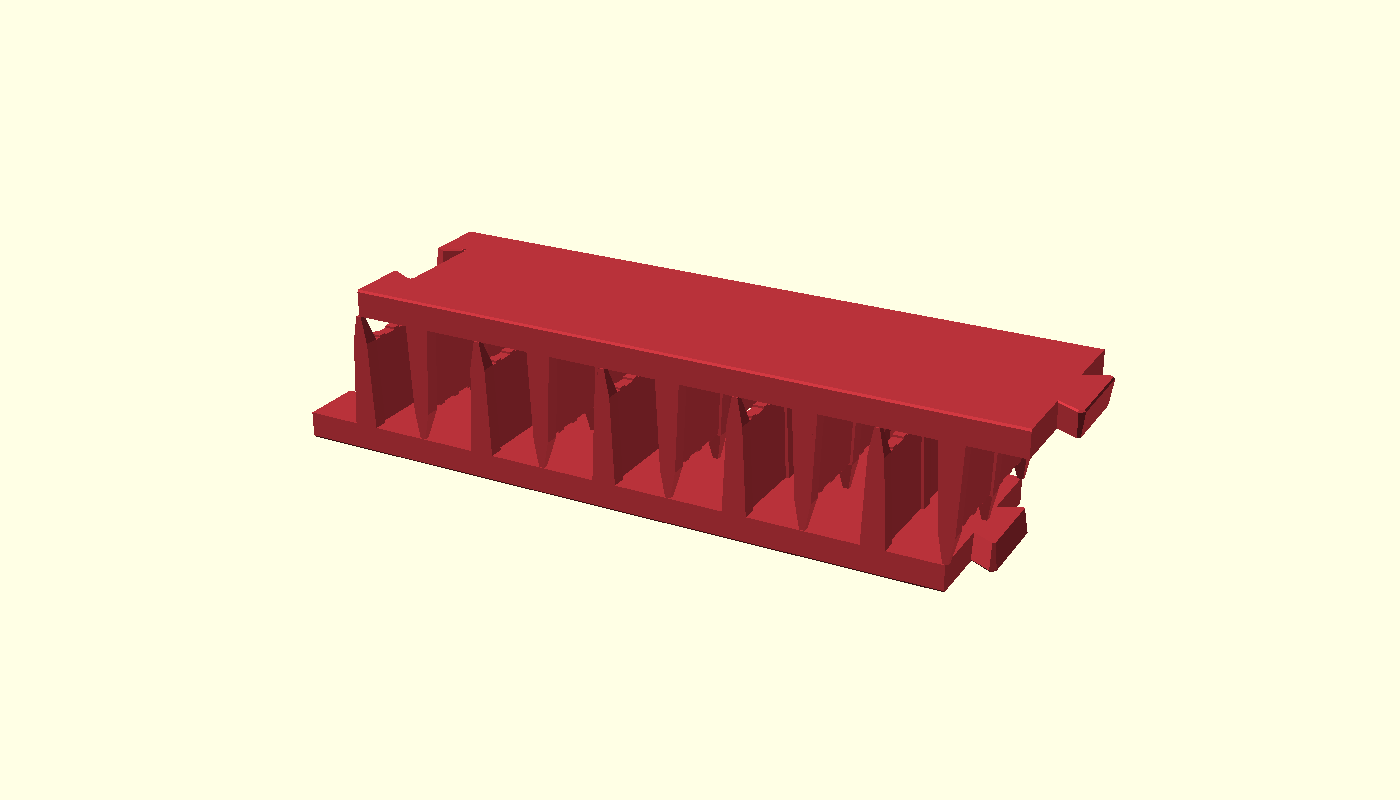
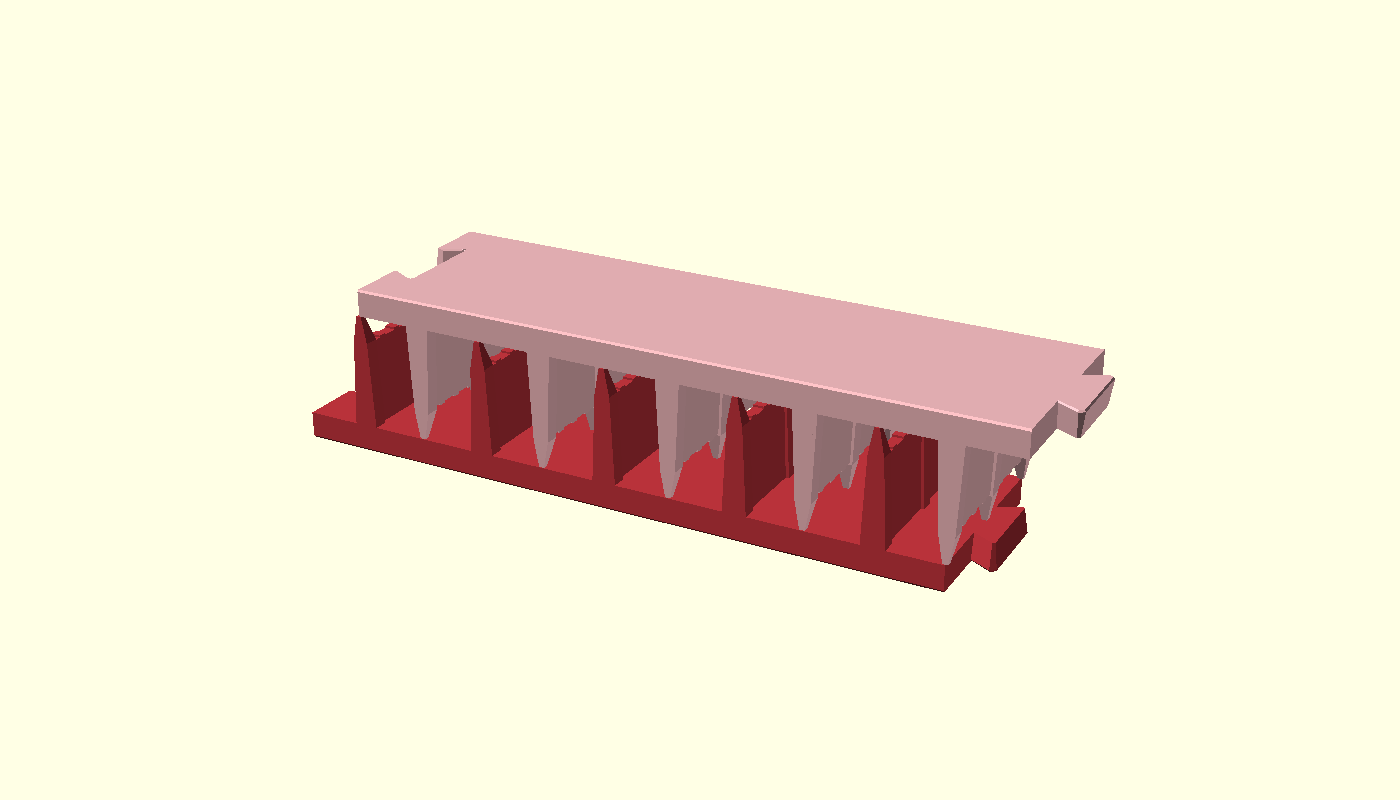
tape-strip-rack: keep rolls and tape out of every export; review round 1
The default render is the assembly with its payload drawn, and a full
render exported the rolls and the tape as geometry: 22 of the 27 bodies
in the STL the site's workbench shows and offers for download. The owner
caught it there. The payload is now drawn only when $preview is true, so
previews keep it and no export can contain it; the default export is the
five printed bodies.

Review round 1 (Jane, Drik, PM triage), the act-now items:
- README: seam at the rear, trim bridge whiskers under the gate before
  first use.
- Two new preview shots: section-pull (the tape just pulled, clear of
  the fin tops, cut through the joint's key) and nested-side. The
  existing nested shot keeps its camera and is drawn in two tones.
  tape_pose and cut_at are the two preview switches behind them.
- NOTES: CI's pass on 2b96a24 recorded beside the local gate, column by
  column; the payload-in-export bug.
- PM.md: backlog re-ranked (presser second, load mark fifth), shot
  table and decision log brought up to date.

No gated part changed: gate.sh --slice is 5 x 100/100 with eleven fit
proofs and the 4-object plate, and the product shot is byte-identical.

Claude-Session: https://claude.ai/code/session_01F1rwVymRWjLF8kogNxgoDx

Changed region(s): [[0.2457, 0.2812, 0.7986, 0.6875]]

diff --git a/designs/tape-strip-rack/NOTES.md b/designs/tape-strip-rack/NOTES.md
@@ -92,10 +92,11 @@ Details that exist for a reason:
 - **Nozzle / layer:** 0.4 mm / 0.2 mm.
 - **Perimeters:** 2 or 3.
 - **Infill:** 15–20 %.
-- **Supports:** none. The gate lintel is meant to be bridged.
+- **Supports:** none. The gate lintel is meant to be bridged. Its underside is the surface the tape slides on, so trim any bridge whiskers before the first pull.
+- **Seam:** rear. An aligned seam that lands on a dovetail flank leaves a ridge there, and the coupon then reads it as too little clearance. Printability review, not yet checked on a print.
 - **Bed:** the rack is 207.8 mm long. On a 220 mm bed it leaves 6 mm at each end, so use a skirt distance of 2 mm, or no skirt, or turn the rack 45°.
 - **Order:** the joint coupon first, then the plate.
-- **Slicer estimate** (PrusaSlicer bare defaults, the gate's test-slice: 3 perimeters, 20 % infill): cradle 5 h 21 m / 60 g, spindle 48 m / 12 g, rack 6 h 02 m / 75 g each, end cap 1 h 24 m / 18 g, coupon 44 m / 10 g. Ten-fin set: about 242 g and 19 h 40 m at those settings.
+- **Slicer estimate** (PrusaSlicer bare defaults, the gate's test-slice: 3 perimeters, 20 % infill): cradle 5 h 22 m / 60 g, spindle 47 m / 12 g, rack 6 h 02 m / 75 g each, end cap 1 h 24 m / 18 g, coupon 44 m / 10 g. Ten-fin set: about 242 g and 19 h 40 m at those settings.
 - The end cap printed alone has only three post tips on its last layers; print it on the plate with the rack so the layers have time to cool.
 
 ## Print this first
@@ -125,23 +126,25 @@ The spindle is a loose running fit, not a tuned one, but roll cores vary: measur
 - `roll-fit` — two 62 × 19 mm rolls on a 25.4 mm core, on the spindle in the cradle: empty. `roll-fit-ctrl` — rolls 8 mm larger: interfere with the floor.
 - `nest-fit` — two rack segments nested for storage, 0.2 mm of air between them: empty. `nest-fit-ctrl` — the same without the half-pitch shift: interferes.
 
-## Gate evidence (2026-11-21, OpenSCAD 2021.01, PrusaSlicer 2.7)
+## Gate evidence
 
-`./scripts/gate.sh --slice tape-strip-rack` exits 0 in about 20 s.
+Two backends gate this design, and they do not always agree. The local gate runs OpenSCAD 2021.01. CI's render gate runs openscad-nightly with the Manifold backend, and is the one a merge depends on.
 
-| Part | printcheck | Test-slice |
-|---|---|---|
-| `cradle` | 100/100 | 5 h 22 m, 60.3 g |
-| `spindle` | 100/100 | 48 m, 12.2 g |
-| `rack` | 100/100 | 6 h 02 m, 75.5 g |
-| `end-cap` | 100/100 | 1 h 24 m, 18.1 g |
-| `tape-strip-rack-coupon` | 100/100 (2 bodies, intended) | 44 m, 9.9 g |
+| Part | Local, OpenSCAD 2021.01 | CI, nightly + Manifold, commit 2b96a24 | Test-slice (CI) |
+|---|---|---|---|
+| `cradle` | 100/100 | 100/100 | 5 h 22 m, 60.3 g |
+| `spindle` | 100/100 | 100/100 | 47 m, 12.2 g |
+| `rack` | 100/100 | 100/100 | 6 h 02 m, 75.5 g |
+| `end-cap` | 100/100 | 100/100 | 1 h 24 m, 18.1 g |
+| `tape-strip-rack-coupon` | 100/100 (2 bodies, intended) | 100/100 | 44 m, 9.9 g |
+
+CI's first run, on commit e3eb9f4, scored the cradle 67/100 and the spindle 59/100 while the local gate had both at 100/100: see Bugs caught. CI gates every later push again; the printcheck report on the pull request is the current record.
+
+Locally, `./scripts/gate.sh --slice tape-strip-rack` exits 0 in about 20 s (PrusaSlicer 2.7; its slice estimates are within a minute of CI's).
 
 Eleven fit proofs pass: five `empty`, six `interferes`. Plate: `build/tape-strip-rack-plate.3mf`, 4 separate objects for 4 declared parts. As merged the plate is spread over about 370 × 155 mm, mostly off a 220 mm bed; pressing Arrange in the slicer packs it onto one.
 
 `./scripts/check.sh` (whole tree) exits 0.
-
-These are the local numbers, on OpenSCAD 2021.01. CI gates the same parts on openscad-nightly with the Manifold backend, and its first run (commit e3eb9f4) failed the cradle and the spindle, which had passed here: see Bugs caught.
 
 Layer-by-layer check by review, sections every 0.2 mm against the layer below: the only thing that starts in mid-air on any part is the gate lintel, two regions 2.00 mm wide by 22.000 mm span at z = 37, each anchored at both ends. The slicer prints them as five bridge strands per lane and drops no feature on any part.
 
@@ -178,6 +181,8 @@ Strip count, traced by review on the assembly: cuts fall at x = 40, 80 … 400. 
   - *Spindle.* It was a single `rotate_extrude()` of a profile that touches the axis. The nightly exports a part that is one primitive as that primitive's raw mesh, and its raw revolve carries a zero-area triangle per side at each pole and along the axis: 384 of them, 190 of those duplicates. 2021.01 does not emit them. Fixed by building the spindle as one explicit polyhedron (`ring_loft`): every face a triangle, each end a fan about a centre point, 1,536 triangles with none degenerate and none duplicated. Volume within 0.05 mm³ of the old one.
   - *Why the emulation missed the cradle.* It fed Manifold single-precision meshes, and Manifold takes its merge tolerance from the precision of its input, so it merged the two edges before the union; and it did not round its output the way the STL writer does. Fed double-precision meshes, and with the six-digit rounding, it reproduces the failure on the old geometry — on the same edge, the nose face at z = 1.2, where CI reported it — and is clean on the new, for every part in both union orders. It cannot see the spindle's failure at all: a part that is one primitive never passes through a boolean.
   - The rule taken from it: a coordinate that comes from a 2D profile and one that comes from a 3D primitive must never be meant to coincide on a surface, and a part that is a single primitive must already be a clean mesh.
+  - Confirmed by CI on commit 2b96a24: all five gated meshes 100/100 on the nightly's Manifold backend.
+- **Rolls and tape in the exported STL.** The default render is the assembly with its payload drawn, and a full render exported the rolls and the tape as geometry: 22 of the 27 bodies in the file the site's workbench shows and offers for download. Caught by the owner, on the workbench. The payload is now drawn only when `$preview` is true, so previews keep it and no export can contain it: the default export is five bodies, the printed parts as assembled. It is still a picture of the assembly, not the file to slice; that is the plate.
 - **The carry claim.** "Pick it up by the cradle" was written from the straight-lift proof. Two reviewers independently found the pivot path a hanging rack can take. The claim is now what D3 says.
 - **A flat end-cap ledge** on the lightest, lift-free part (D6), **8 mm of threading room** (D9), and **a coupon narrower than the joint it stands in for** (its socket arms were 4 mm against 14 mm on a rack) — all caught by review, all fixed.
 

diff --git a/designs/tape-strip-rack/PM.md b/designs/tape-strip-rack/PM.md
@@ -24,7 +24,7 @@ A desk rack that turns one pull of tape into a row of equal strips, for someone 
 
 ## v1 — definition of done
 
-- [x] `gate.sh --slice tape-strip-rack` green: cradle, spindle, rack, end-cap and the joint coupon all 100/100 and sliced
+- [x] `gate.sh --slice tape-strip-rack` green, locally and on CI's nightly Manifold backend (commit 2b96a24): cradle, spindle, rack, end-cap and the joint coupon all 100/100 and sliced
 - [x] `ci.fitchecks`: eleven proofs — joint as joined, pulled, lifted and dropped; spindle; rolls; nesting — with their controls
 - [x] `build/tape-strip-rack-plate.3mf` builds as 4 distinct objects
 - [x] Every *Must fit / hold* row of the brief re-derived from the exported meshes (NOTES, Brief audit)
@@ -51,7 +51,9 @@ A desk rack that turns one pull of tape into a row of equal strips, for someone 
 | section | the tape path: roll, under the gate, onto the fins | side, orthographic | preview colours | `part="cutaway"` |
 | fins | ribbed lands and guide posts | close 3/4 | preview colours | `show_payload=false` |
 | joint | the drafted dovetail key, under a rack lifted off it | low, from the side | preview colours | `explode=16 show_payload=false` |
-| nested | two rack segments stored fin-into-gap | 3/4 | preview colours | `part="nested"` |
+| nested | two rack segments stored fin-into-gap, in two tones | 3/4 | preview colours | `part="nested"` |
+| nested-side | the same pair, read as two combs | side, orthographic | preview colours | `part="nested"` |
+| section-pull | the tape just pulled, clear of the fin tops, and the drafted key in its socket | side, orthographic, close | preview colours | `part="cutaway" cut_at="key" tape_pose="pulled"` |
 | coupon | what to print first | 3/4 | plain | coupon wrapper |
 | contact-sheet | the assembled four-view; three of the four parts as they print | standard | preview colours | default |
 
@@ -59,15 +61,17 @@ A desk rack that turns one pull of tape into a row of equal strips, for someone 
 
 ## Backlog, ranked by user value
 
+Rows are in rank order. The B numbers are names, kept from the first ranking so that earlier reviews still point at the right item.
+
 | # | Item | Why this rank | Cost |
 |---|---|---|---|
-| B1 | A pull-over tear edge on the cradle nose, shipped as a coupon experiment first | scissors are the one thing the user must bring; matte and paper tape may tear on a printed edge | one coupon, a field test, then a cradle change |
-| B2 | A positive latch on the joint (a snap detent on the flanks) | a hanging rack is held by friction only, and the end cap lifts off with the tails | a flexure in the socket, a second tuned fit, a coupon |
-| B3 | A presser that seats both tapes on a fin in one push | twenty fingertip presses per pull | one small part |
+| B1 | A pull-over tear edge on the cradle nose, shipped as a coupon experiment first | scissors are the one thing the user must bring, and put down between gifts; matte and paper tape may tear on a printed edge | one coupon, a field test, then a cradle change |
+| B3 | A presser that seats both tapes on a fin in one push | twenty fingertip presses per pull, more than the ten snips: the most repeated fine action after grabbing a strip | one small part |
+| B2 | A positive latch on the joint (a snap detent on the flanks) | a hanging rack is held by friction only, and the end cap must be held down while its tails are peeled | a flexure in the socket, a second tuned fit, a coupon |
 | B4 | Independent hubs with a centre wall | changing one empty roll currently lifts both | a second spindle part and a cradle variant |
+| B7 | Debossed load-direction mark on the cradle walls | a roll loaded backwards feeds sticky side up and fails several steps later, with only a sentence on the page to prevent it | text or icon; thin-wall risk in printcheck |
 | B5 | A coin ballast trough in the palm pad | the rack is about 3.3 N with rolls against a 2–8 N pull; ballast helps but two lanes still need a hand | a trough and a lid |
 | B6 | Taller entry posts on the end cap, or a two-tape pull tab | both tapes must be landed 26.4 mm apart in a funnel that forgives 2.9 mm | geometry on one part |
-| B7 | Debossed load-direction mark on the cradle walls | a roll loaded backwards feeds sticky side up | text or icon; thin-wall risk in printcheck |
 
 ## Open decisions
 
@@ -91,3 +95,7 @@ A desk rack that turns one pull of tape into a row of equal strips, for someone 
 | 2026-11-21 | Joint draft 10° to 8°; carrying claim withdrawn | Review found a hanging rack is held by friction only; a shallower taper holds better, and the page now says to carry it from underneath |
 | 2026-11-21 | 20 mm between the largest roll and the gate | Review measured 8 mm, with solid walls either side: no room to thread a full roll |
 | 2026-11-21 | End-cap ledge ribbed like the fins | Review measured the flat ledge at ten times a fin's contact on the lightest, lift-free part |
+| 2026-11-22 | Walls start at a depth of their own; the spindle is one lofted polyhedron | CI's Manifold backend scored the cradle 67 and the spindle 59 on meshes the local gate passed. Neither solid changed shape |
+| 2026-11-22 | Presser (B3) up to second, load mark (B7) up to fifth | The customer review walked one session: twenty presses a pull against ten snips; and a backwards roll fails silently, steps later |
+| 2026-11-22 | Seam at the rear and a whisker-trim step on the page; two preview shots added (`section-pull`, `nested-side`), `nested` drawn in two tones | Printability review: an aligned seam in the dovetail reads as a tight joint; the gate's underside is a working surface; the nested shot read as one part and no shot showed the tape before pressing |
+| 2026-11-22 | Rolls and tape are drawn in previews only | The owner found them in the STL the site's workbench exports. An export holds printed parts and nothing else |

diff --git a/designs/tape-strip-rack/README.md b/designs/tape-strip-rack/README.md
@@ -29,6 +29,7 @@ Assembled with two racks it takes 561 × 57 mm of table and stands 58 mm tall; w
 - **Perimeters:** 2 or 3
 - **Infill:** 15–20 %
 - **Supports:** none, and leave them off. The gate on the cradle is two 22 mm bridges, which is what it is meant to be
+- **Seam:** rear ("Back" in Bambu Studio). That keeps the seam on a side face and out of the dovetail, where a ridge would read as a tight joint on the coupon
 - **Orientation:** as exported. Cradle, rack and end cap sit on their bases; the spindle stands on end
 - **Bed:** every part fits 220 × 220 mm, but the rack is 208 mm long and leaves 6 mm at each end. On a 220 mm bed set the skirt distance to 2 mm (or print without one), or turn the rack 45°
 - **Filament and time:** about 242 g and 19 h 40 m for the ten-fin set on PrusaSlicer's own slow defaults (3 perimeters, 20 % infill); a rack segment alone is 75 g and 6 hours. Two perimeters and 15 % infill take about 18 % off the filament and 13 % off the time (198 g, 17 h 10 m). Slightly thinner fins would not help: they are already almost all perimeter
@@ -81,11 +82,13 @@ All parameters are at the top of `tape-strip-rack.scad`, grouped in Customizer s
 
 **Load.** Slide two rolls onto the spindle, one each side of the flange, with the tape coming off the **top** of each roll toward the rack, sticky side down. A roll put on backwards feeds sticky side up. Hold the rolls, not the spindle, and lower it into the slots in the cradle walls; it goes in up-and-back and comes out the same way.
 
-**Thread.** Let each tape end drop behind the gate, fish it forward through the opening underneath, and stick it to the first fin.
+**Thread.** Before the first use, run a fingernail along the underside of the gate and trim off any bridge whiskers: the tape slides against it on every pull. Then let each tape end drop behind the gate, fish it forward through the opening underneath, and stick it to the first fin.
 
 ![Section through one lane: the tape leaves the roll, passes under the gate and lands on the fins](previews/section.png)
 
 **Pull.** Press down on the palm pad with one hand. With the other, take both tape ends off the first fin, a thumb across both so they stay a lane apart, and pull them along the rack above the posts to just past the end cap. Lower them between the end cap's posts and stick the ends to its ledge. The tape now hovers a millimetre or two over the fins: run a fingertip down each lane to press it onto every fin.
+
+![Just pulled, not yet pressed: the tape runs taut from under the gate and clears the fin tops](previews/section-pull.png)
 
 **Cut.** Snip both tapes midway between each pair of fins, and between the last fin and the end cap. Scissors with 60 mm blades reach across both lanes; shorter ones take one snip a lane, from either side.
 
@@ -97,6 +100,8 @@ All parameters are at the top of `tape-strip-rack.scad`, grouped in Customizer s
 
 **Store.** Two rack segments nest: turn one over, shift it half a pitch, and its fins sit in the other's gaps (228 × 57 × 50 mm for the pair).
 
-![Two rack segments nested for storage](previews/nested.png)
+![Two rack segments nested for storage, the upper one drawn lighter](previews/nested.png)
+
+![The same pair from the side: each segment's fins sit in the other's gaps](previews/nested-side.png)
 
 **What it will not do.** It does not cut. With rolls it weighs about as much as two tapes pull (roughly 3 N against 2–8 N), so it slides unless you hold the palm pad; stick-on bumper feet on the flat underside help but do not replace the hand. Changing one roll lifts both. It takes tape on a 1 in core up to 62 mm across; packing tape and 3 in cores do not fit.

diff --git a/designs/tape-strip-rack/previews/CAMERAS.md b/designs/tape-strip-rack/previews/CAMERAS.md
@@ -34,6 +34,22 @@ review rounds must align).
   under the rack that is lowered onto it. The socket's shape is on the
   coupon shot.
 - **nested** — two rack segments stored together (`part="nested"`): one
-  turned over and shifted half a pitch, its fins in the other's gaps.
+  turned over and shifted half a pitch, its fins in the other's gaps. The
+  upper segment is drawn lighter so the two read as two (the camera did not
+  move).
 - **coupon** — the print-this-first joint coupon: the key stub (left) and
   the socket stub (right), each as wide as a rack, loose on the bed.
+- **section-pull** — orthographic cut through the joint's key, close on the
+  gate, the first joint and the first two fins (`part="cutaway"`,
+  `cut_at="key"`, `tape_pose="pulled"`; cut faces grey). The cut is half a
+  millimetre inside the second lane, so that lane's tape shows beyond it.
+  The tape is drawn just pulled and not yet pressed: off the roll, under
+  the lintel, then taut toward the end cap, clear of the fin tops. The
+  leaning hairline in the base is the clearance between the cradle's
+  drafted key (left) and the rack's socket (right). The tape is drawn
+  0.3 mm thick so that it shows; real tape is about a sixth of that, so the
+  real gap over the first fin is 2.8 mm against the 2.5 mm drawn.
+- **nested-side** — the nested pair in side elevation (`part="nested"`,
+  orthographic): the lower segment's fins pointing up, the upper segment's
+  pointing down between them, each post tip 0.2 mm short of the other
+  segment's base.
